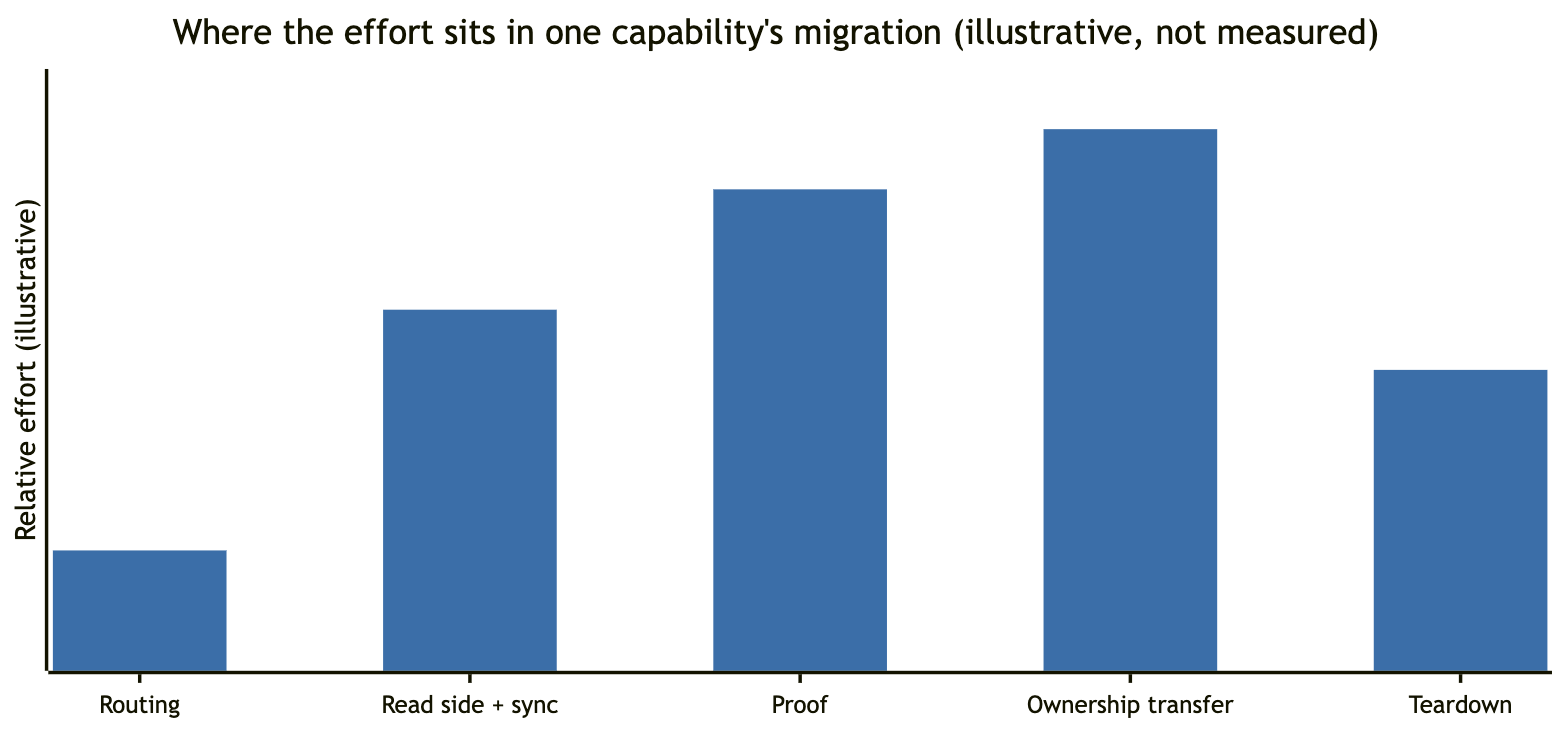
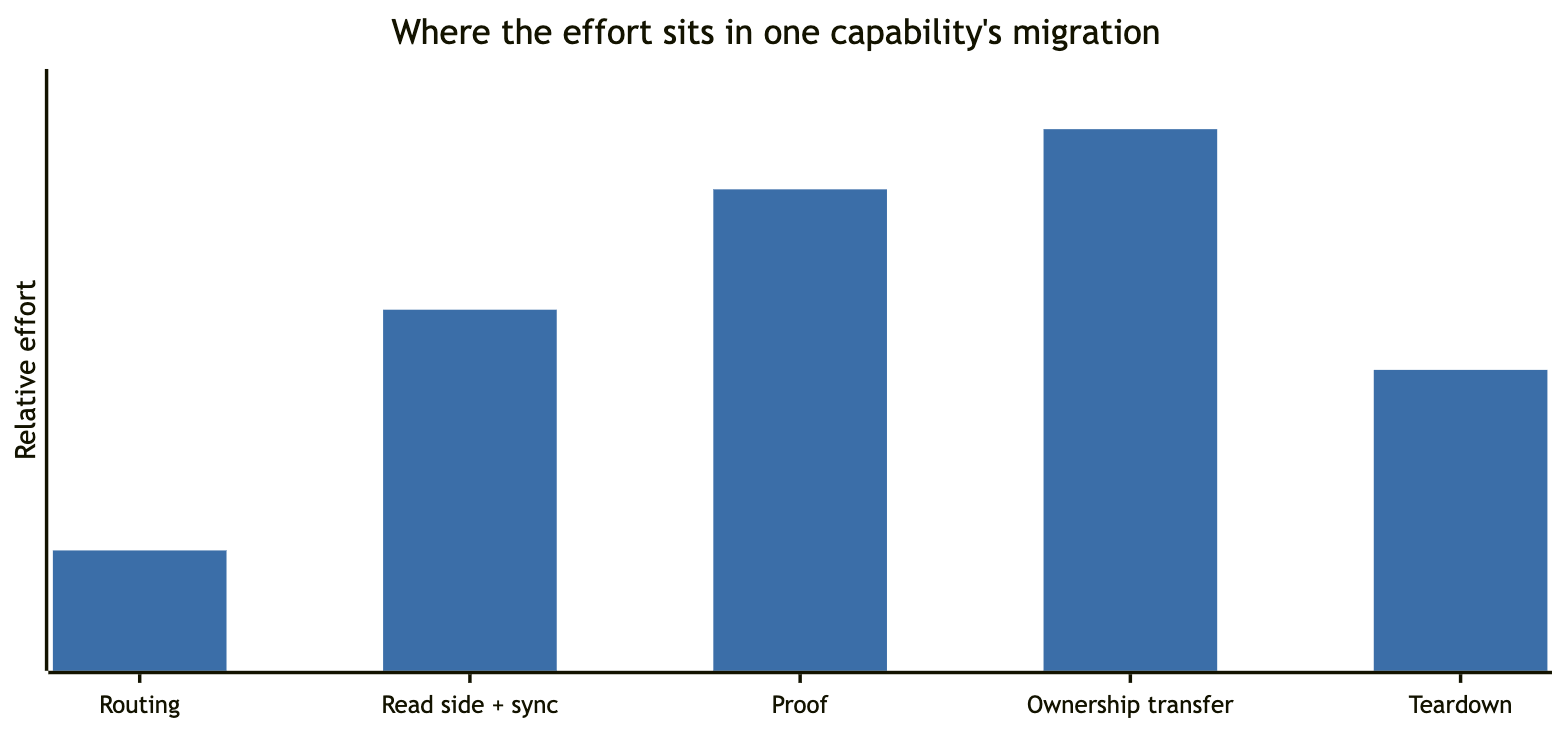
Drop the illustrative-not-measured wording from the Medium chart
The caveat read as defensive. The chart, caption and limits paragraph
now frame the effort split as the author's own estimate, and the JavaPro
intro calls the example code simplified instead of made up.

Changed region(s): [[0.0938, 0.0301, 0.875, 0.0902], [0.0, 0.2705, 0.0312, 0.7514]]

diff --git a/docs/articles/medium/article.md b/docs/articles/medium/article.md
@@ -63,9 +63,9 @@ This is why I think the "which system owns this record today" question deserves 
 
 Every piece of transitional architecture has to be designed, built, run, monitored, on-call supported and, eventually, removed. Facades, CDC pipelines, translation layers, reconciliation jobs, reverse sync, shadow comparison, routing toggles. Each one is real software with real operating cost. During coexistence you're also paying for both stacks at once, including mainframe capacity that doesn't shrink until you actually switch something off. My view is that coexistence is often the most expensive period of the whole program, and it should be budgeted that way.
 
-![Illustrative bar chart, not measured: relative effort across one capability's migration, with routing as the smallest bar, then read side and data sync, then proof, with ownership transfer as the largest and teardown still substantial](diagrams/effort-over-migration.png)
+![Bar chart of the relative effort I'd expect across one capability's migration, with routing as the smallest bar, then read side and data sync, then proof, with ownership transfer as the largest and teardown still substantial](diagrams/effort-over-migration.png)
 
-*Illustrative, not measured. It shows where I'd expect the effort to sit for one capability. Routing is the smallest bar. Ownership transfer and proof are the largest, and teardown is still well above routing.*
+*Where I'd expect the effort to sit for one capability. Routing is the smallest bar. Ownership transfer and proof are the largest, and teardown is still well above routing.*
 
 The trap is what the [Patterns of Legacy Displacement](https://martinfowler.com/articles/patterns-legacy-displacement/) catalog (Ian Cartwright, Rob Horn and James Lewis, first published July 2021) defines in one line: transitional architecture is "software elements installed to ease the displacement of a legacy system that we intend to remove when the displacement is complete." The word that matters is "intend", and intentions don't remove anything. If nobody owns the teardown, and nobody put a date and a budget on it, the scaffolding stays. The new service works, the old one still runs because "some report needs it", the CDC pipeline keeps flowing and the reconciliation job keeps finding small breaks that someone triages every morning.
 
@@ -113,7 +113,7 @@ I've spent most of this piece saying the Strangler Fig needs more around it. It 
 
 There are also a few anti-patterns that look like progress and aren't. One microservice per COBOL program rebuilds the 1980s structure with network latency added. New services reading legacy tables directly skip the translation layer and inherit the old schema. And the "incremental" migration where code moves gradually but all the data moves in one weekend is a big bang with extra steps.
 
-I'll also be clear about the limits of what I'm saying. I don't have adoption numbers or cost data from a live program to share, and I won't invent any. The effort chart above is an illustration of where I'd expect the work to land, not a measurement. Regulatory context matters too and varies by jurisdiction. In the EU, for example, the [Digital Operational Resilience Act (Regulation (EU) 2022/2554)](https://eur-lex.europa.eu/eli/reg/2022/2554/oj) has applied since 17 January 2025 and shapes how banks handle operational resilience and ICT third-party risk, including exit strategies for cloud and other ICT providers, during a change like this. Your constraints may differ.
+I'll also be clear about the limits of what I'm saying. I don't have adoption numbers or cost data from a live program to share, and I won't invent any. The effort chart above reflects my own estimate of where the work lands. Regulatory context matters too and varies by jurisdiction. In the EU, for example, the [Digital Operational Resilience Act (Regulation (EU) 2022/2554)](https://eur-lex.europa.eu/eli/reg/2022/2554/oj) has applied since 17 January 2025 and shapes how banks handle operational resilience and ICT third-party risk, including exit strategies for cloud and other ICT providers, during a change like this. Your constraints may differ.
 
 ## Wrapping up
 

diff --git a/docs/articles/javapro/article.md b/docs/articles/javapro/article.md
@@ -21,7 +21,7 @@ A Strangler Fig migration of a COBOL core replaces one capability at a time, and
 
 A bank that strangles its core one capability at a time ends up with Java services that read COBOL records, recompute numbers the mainframe already computes, publish events and post money over links that sometimes time out. Each piece is a few dozen lines and easy to get subtly wrong. This article is for the people who will read the diff.
 
-The [legacy-modernization-patterns](https://github.com/wallaceespindola/legacy-modernization-patterns) repository holds the series context and a Maven module, `examples/account-modernization/`, with four packages: `acl`, `interest`, `outbox` and `posting`. It is plain Java 25 with JUnit 5 and AssertJ, 36 tests, no Spring and no database, so `mvn verify` runs offline in seconds. The code and the copybook layout are illustrative, made up for the example.
+The [legacy-modernization-patterns](https://github.com/wallaceespindola/legacy-modernization-patterns) repository holds the series context and a Maven module, `examples/account-modernization/`, with four packages: `acl`, `interest`, `outbox` and `posting`. It is plain Java 25 with JUnit 5 and AssertJ, 36 tests, no Spring and no database, so `mvn verify` runs offline in seconds. The code and the copybook layout are simplified examples, not taken from a production system.
 
 For the step before any of this, understanding what the legacy system does, see my earlier [Dev.to piece](https://dev.to/wallaceespindola/stop-rewriting-legacy-systems-use-ai-to-understand-them-first-21ba).
 
